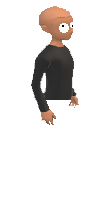
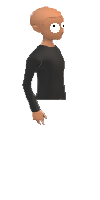
fix player textype and depth
pls help

Changed region(s): [[0.21, 0.03, 0.78, 0.63], [0.48, 0.3, 0.51, 0.33], [0.39, 0.3, 0.42, 0.33]]

diff --git a/core/src/com/theshooter/Screen/ScreenObject.java b/core/src/com/theshooter/Screen/ScreenObject.java
@@ -7,17 +7,17 @@ import com.theshooter.Logic.Entity.Entity;
 public class ScreenObject implements IScreenObject {
 
     Entity entity;
+    int shift;
     private Texture texture;
 
-    public ScreenObject(Entity entity, Texture texture){
+    public ScreenObject(Entity entity, Texture texture, int shift){
         this.entity = entity;
         this.texture = texture;
+        this.shift = shift;
     }
 
-    public ScreenObject() {}
-
     public void draw(SpriteBatch batch){
-        batch.draw(texture, getScreenX(), getScreenY());
+        batch.draw(texture, getScreenX()- shift, getScreenY() );
     }
 
     @Override
@@ -28,20 +28,13 @@ public class ScreenObject implements IScreenObject {
             if (s.getDepth() == Depth.FLOOR)
                 return 1;
         }
-        /*
-        if (s.getY() < getY())
+
+        if (s.getX() + s.getWidth() / 2 + s.getY() + s.getHeight() / 2 <
+                getX() + getWidth() / 2 + getY() + getHeight() / 2)
             return -1;
-        if (s.getY() > getY())
+        if (s.getX() + s.getWidth() / 2 + s.getY() + s.getHeight() / 2 >
+                getX() + getWidth() / 2 + getY() + getHeight() / 2)
             return 1;
-        */
-        if (s.getX() < getX())
-            return -1;
-        if (s.getX() > getX())
-            return 1;
-
-
-
-
 
         return getDepth().compareTo(s.getDepth());
     }
@@ -53,6 +46,13 @@ public class ScreenObject implements IScreenObject {
     public int getY() {
         return entity.getY();
     }
+    public int getWidth() {
+        return entity.getWidth();
+    }
+    public int getHeight() {
+        return entity.getHeight();
+    }
+
     public int getScreenX() {
         return entity.getX() - entity.getY();
     }

diff --git a/core/src/com/theshooter/Screen/GameScreen.java b/core/src/com/theshooter/Screen/GameScreen.java
@@ -62,23 +62,23 @@ public class GameScreen implements Screen {
 
         for (int i = -100; i < 100; i++)
             for (int j = -100; j < 100; j++)
-                screenObjects.add(new ScreenObject(new Entity(i*50, j*50, 50, 50, Depth.FLOOR), floor));
+                screenObjects.add(new ScreenObject(new Entity(i*50, j*50, 50, 50, Depth.FLOOR), floor, 50));
 
         for (int i = 20; i > 10; i--)
             for (int j = 10; j > -10; j--)
-                screenObjects.add(new ScreenObject(new Entity(i*50, j*50, 50, 50, Depth.THINGS), box));
+                screenObjects.add(new ScreenObject(new Entity(i*50, j*50, 50, 50, Depth.THINGS), box, 50));
 
         for (int i = 15; i > 10; i -= 1)
             for (int j = 10; j > -10; j -= 1){
                 Entity entity = new Entity(i*50, j*50, 50, 50, Depth.WALLS, false);
                 game.map.addEntity(entity);
-                screenObjects.add(new ScreenObject(entity, flyingFloor));
+                screenObjects.add(new ScreenObject(entity, flyingFloor, 50));
             }
 
         for (int i = -100; i < 0; i ++)
             for (int j = 50; j > -50; j -= 1){
                 Vase entity = new Vase(MathUtils.random(-5000, 5000), MathUtils.random(-5000, 5000));
-                game.map.addBreakableEntitu(entity);
+                game.map.addBreakableEntity(entity);
                 screenObjects.add(new VaseScreenObject(entity, vase1, vase2));
             }
 
@@ -86,7 +86,7 @@ public class GameScreen implements Screen {
     }
 
     public void addBullet(Bullet bullet){
-        screenObjects.add(new ScreenObject(bullet, this.bullet));
+        screenObjects.add(new ScreenObject(bullet, this.bullet, 0));
     }
 
     @Override

diff --git a/core/src/com/theshooter/Screen/PlayerScreenObject.java b/core/src/com/theshooter/Screen/PlayerScreenObject.java
@@ -14,7 +14,7 @@ public class PlayerScreenObject extends ScreenObject {
     private int currentLegs;
 
     public PlayerScreenObject(Player player, Texture[] body, Texture[] legs) {
-        super(player, body[0]);
+        super(player, body[0], 50);
 
         this.player = player;
         this.body = body;
@@ -22,22 +22,19 @@ public class PlayerScreenObject extends ScreenObject {
     }
 
     public void draw(SpriteBatch batch) {
-        batch.draw(legs[currentLegs], getScreenX(), getScreenY());
-        batch.draw(body[currentBody], getScreenX(), getScreenY());
+        batch.draw(legs[currentLegs], getScreenX() - shift, getScreenY());
+        batch.draw(body[currentBody], getScreenX() - shift, getScreenY());
     }
 
     public void setCurrentLegs(int dx, int dy) {
-
         if (dx == 0 && dy > 0)
             this.currentLegs = 5;
         if (dx == 0 && dy < 0)
             this.currentLegs = 6;
-
         if (dx > 0 && dy == 0)
             this.currentLegs = 4;
         if (dx < 0 && dy == 0)
             this.currentLegs = 7;
-
         if (dx > 0 && dy > 0)
             this.currentLegs = 2;
         if (dx < 0 && dy > 0)
@@ -66,17 +63,5 @@ public class PlayerScreenObject extends ScreenObject {
             this.currentBody = 5;
         else
             this.currentBody = 3;
-    }
-
-    public int getX() {
-        return player.getX();
-    }
-
-    public int getY() {
-        return player.getY();
-    }
-
-    public Depth getDepth() {
-        return player.getDepth();
     }
 }

diff --git a/core/src/com/theshooter/Game.java b/core/src/com/theshooter/Game.java
@@ -26,7 +26,7 @@ public class Game extends com.badlogic.gdx.Game {
 	@Override
 	public void create () {
 		map = new Map();
-        player = new Player(20, 20, 25, 25);
+        player = new Player(0, 0, 25, 25);
 
 		mainScreen = new MainScreen(this);
 		gameScreen = new GameScreen(this);
@@ -51,7 +51,6 @@ public class Game extends com.badlogic.gdx.Game {
 	    dy /= norm;
 
         Bullet bullet = new Bullet(player.getX(), player.getY(), dx, dy);
-
         map.addBullet(bullet);
         gameScreen.addBullet(bullet);
     }

diff --git a/core/src/com/theshooter/Logic/InputController.java b/core/src/com/theshooter/Logic/InputController.java
@@ -151,6 +151,11 @@ public class InputController implements InputProcessor {
 
     @Override
     public boolean touchDragged(int screenX, int screenY, int pointer) {
+        float curX = screenX - Gdx.graphics.getWidth() / 2;
+        float curY = screenY - Gdx.graphics.getHeight() / 2;
+
+        game.gameScreen.playerScreen.setCurrentBody(curX, curY);
+
         return false;
     }
 

diff --git a/core/src/com/theshooter/Logic/Map.java b/core/src/com/theshooter/Logic/Map.java
@@ -43,7 +43,7 @@ public class Map {
         bullets.add(entity);
     }
 
-    public void addBreakableEntitu(BreakableEntity entity){
+    public void addBreakableEntity(BreakableEntity entity){
         entities.add(entity);
         breakableEntities.add(entity);
     }

diff --git a/core/src/com/theshooter/Screen/VaseScreenObject.java b/core/src/com/theshooter/Screen/VaseScreenObject.java
@@ -10,7 +10,7 @@ public class VaseScreenObject extends ScreenObject{
     private Texture t1, t2;
 
     public VaseScreenObject(Vase vase, Texture t1, Texture t2){
-        super(vase, t1);
+        super(vase, t1, 50);
 
         this.vase = vase;
         this.t1 = t1;

diff --git a/core/src/com/theshooter/Screen/WallScreenObject.java b/core/src/com/theshooter/Screen/WallScreenObject.java
@@ -9,7 +9,7 @@ public class WallScreenObject extends ScreenObject {
     private Wall wall;
 
     public WallScreenObject(Wall wall, Texture texture) {
-        super(wall, texture);
+        super(wall, texture, 50);
 
         this.wall = wall;
     }

diff --git a/core/src/com/theshooter/Screen/IScreenObject.java b/core/src/com/theshooter/Screen/IScreenObject.java
@@ -3,6 +3,8 @@ package com.theshooter.Screen;
 public interface IScreenObject extends Comparable<IScreenObject> {
     int getX();
     int getY();
+    int getWidth();
+    int getHeight();
     Depth getDepth();
     int compareTo(IScreenObject s);
 }
